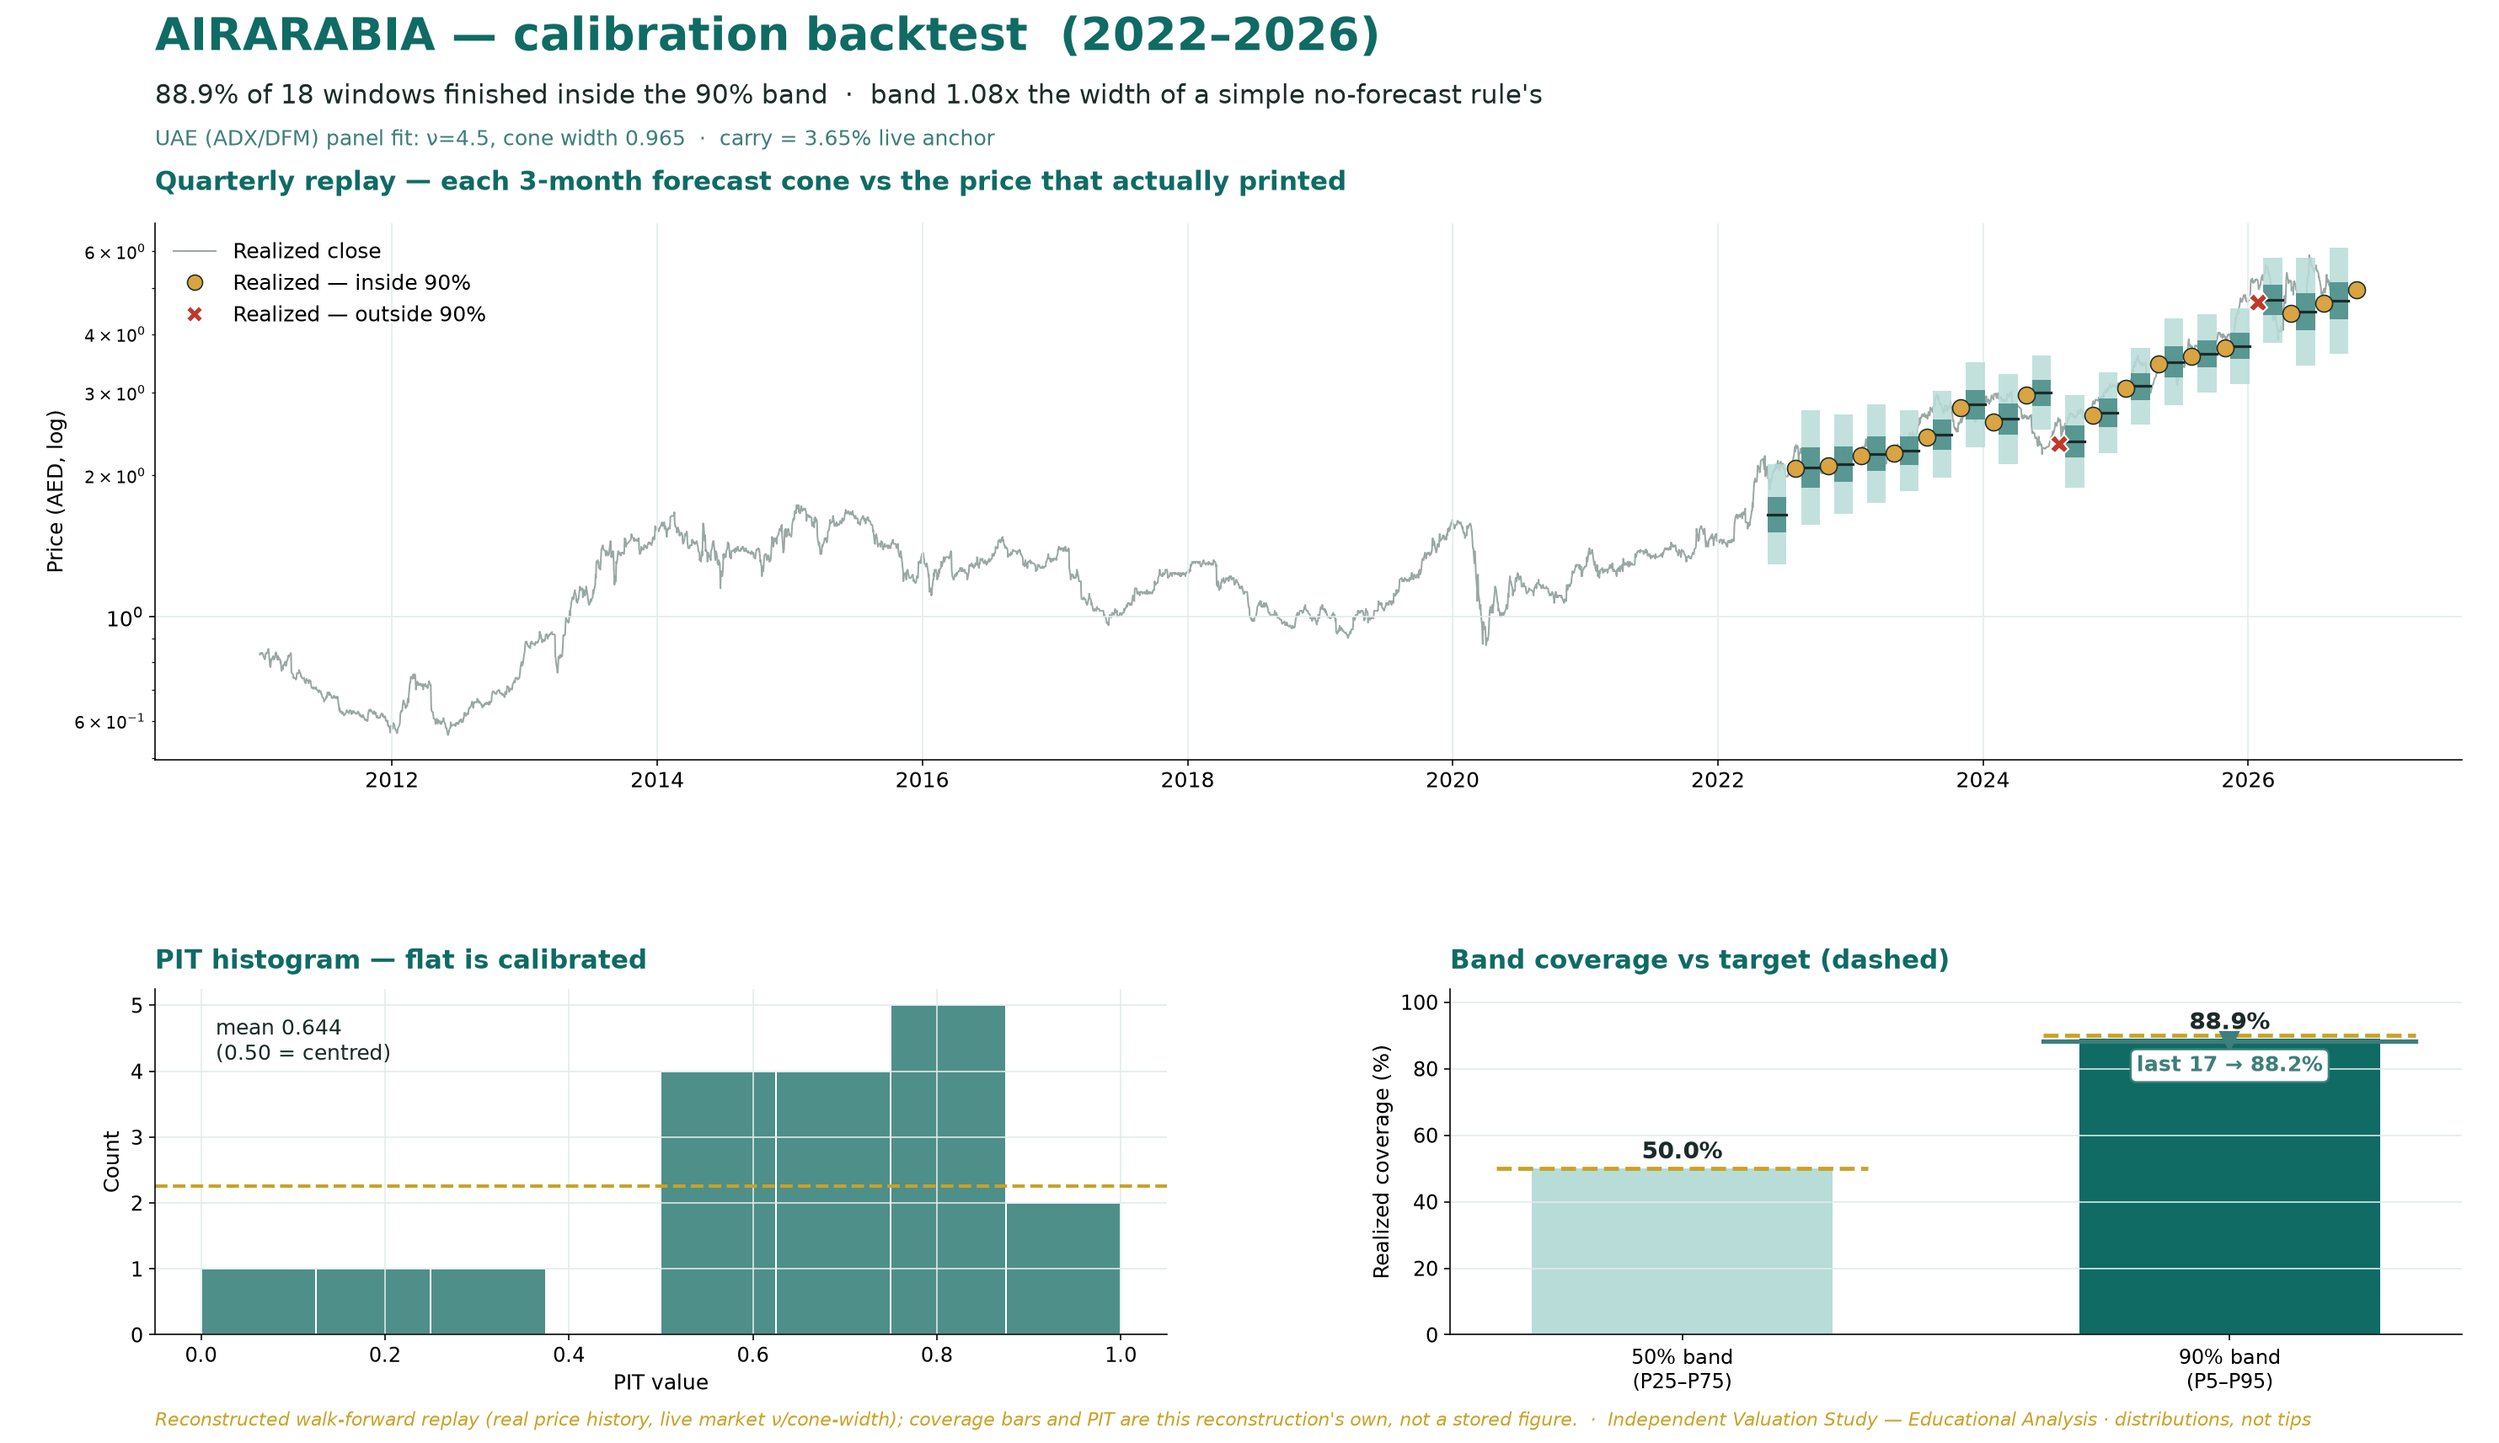
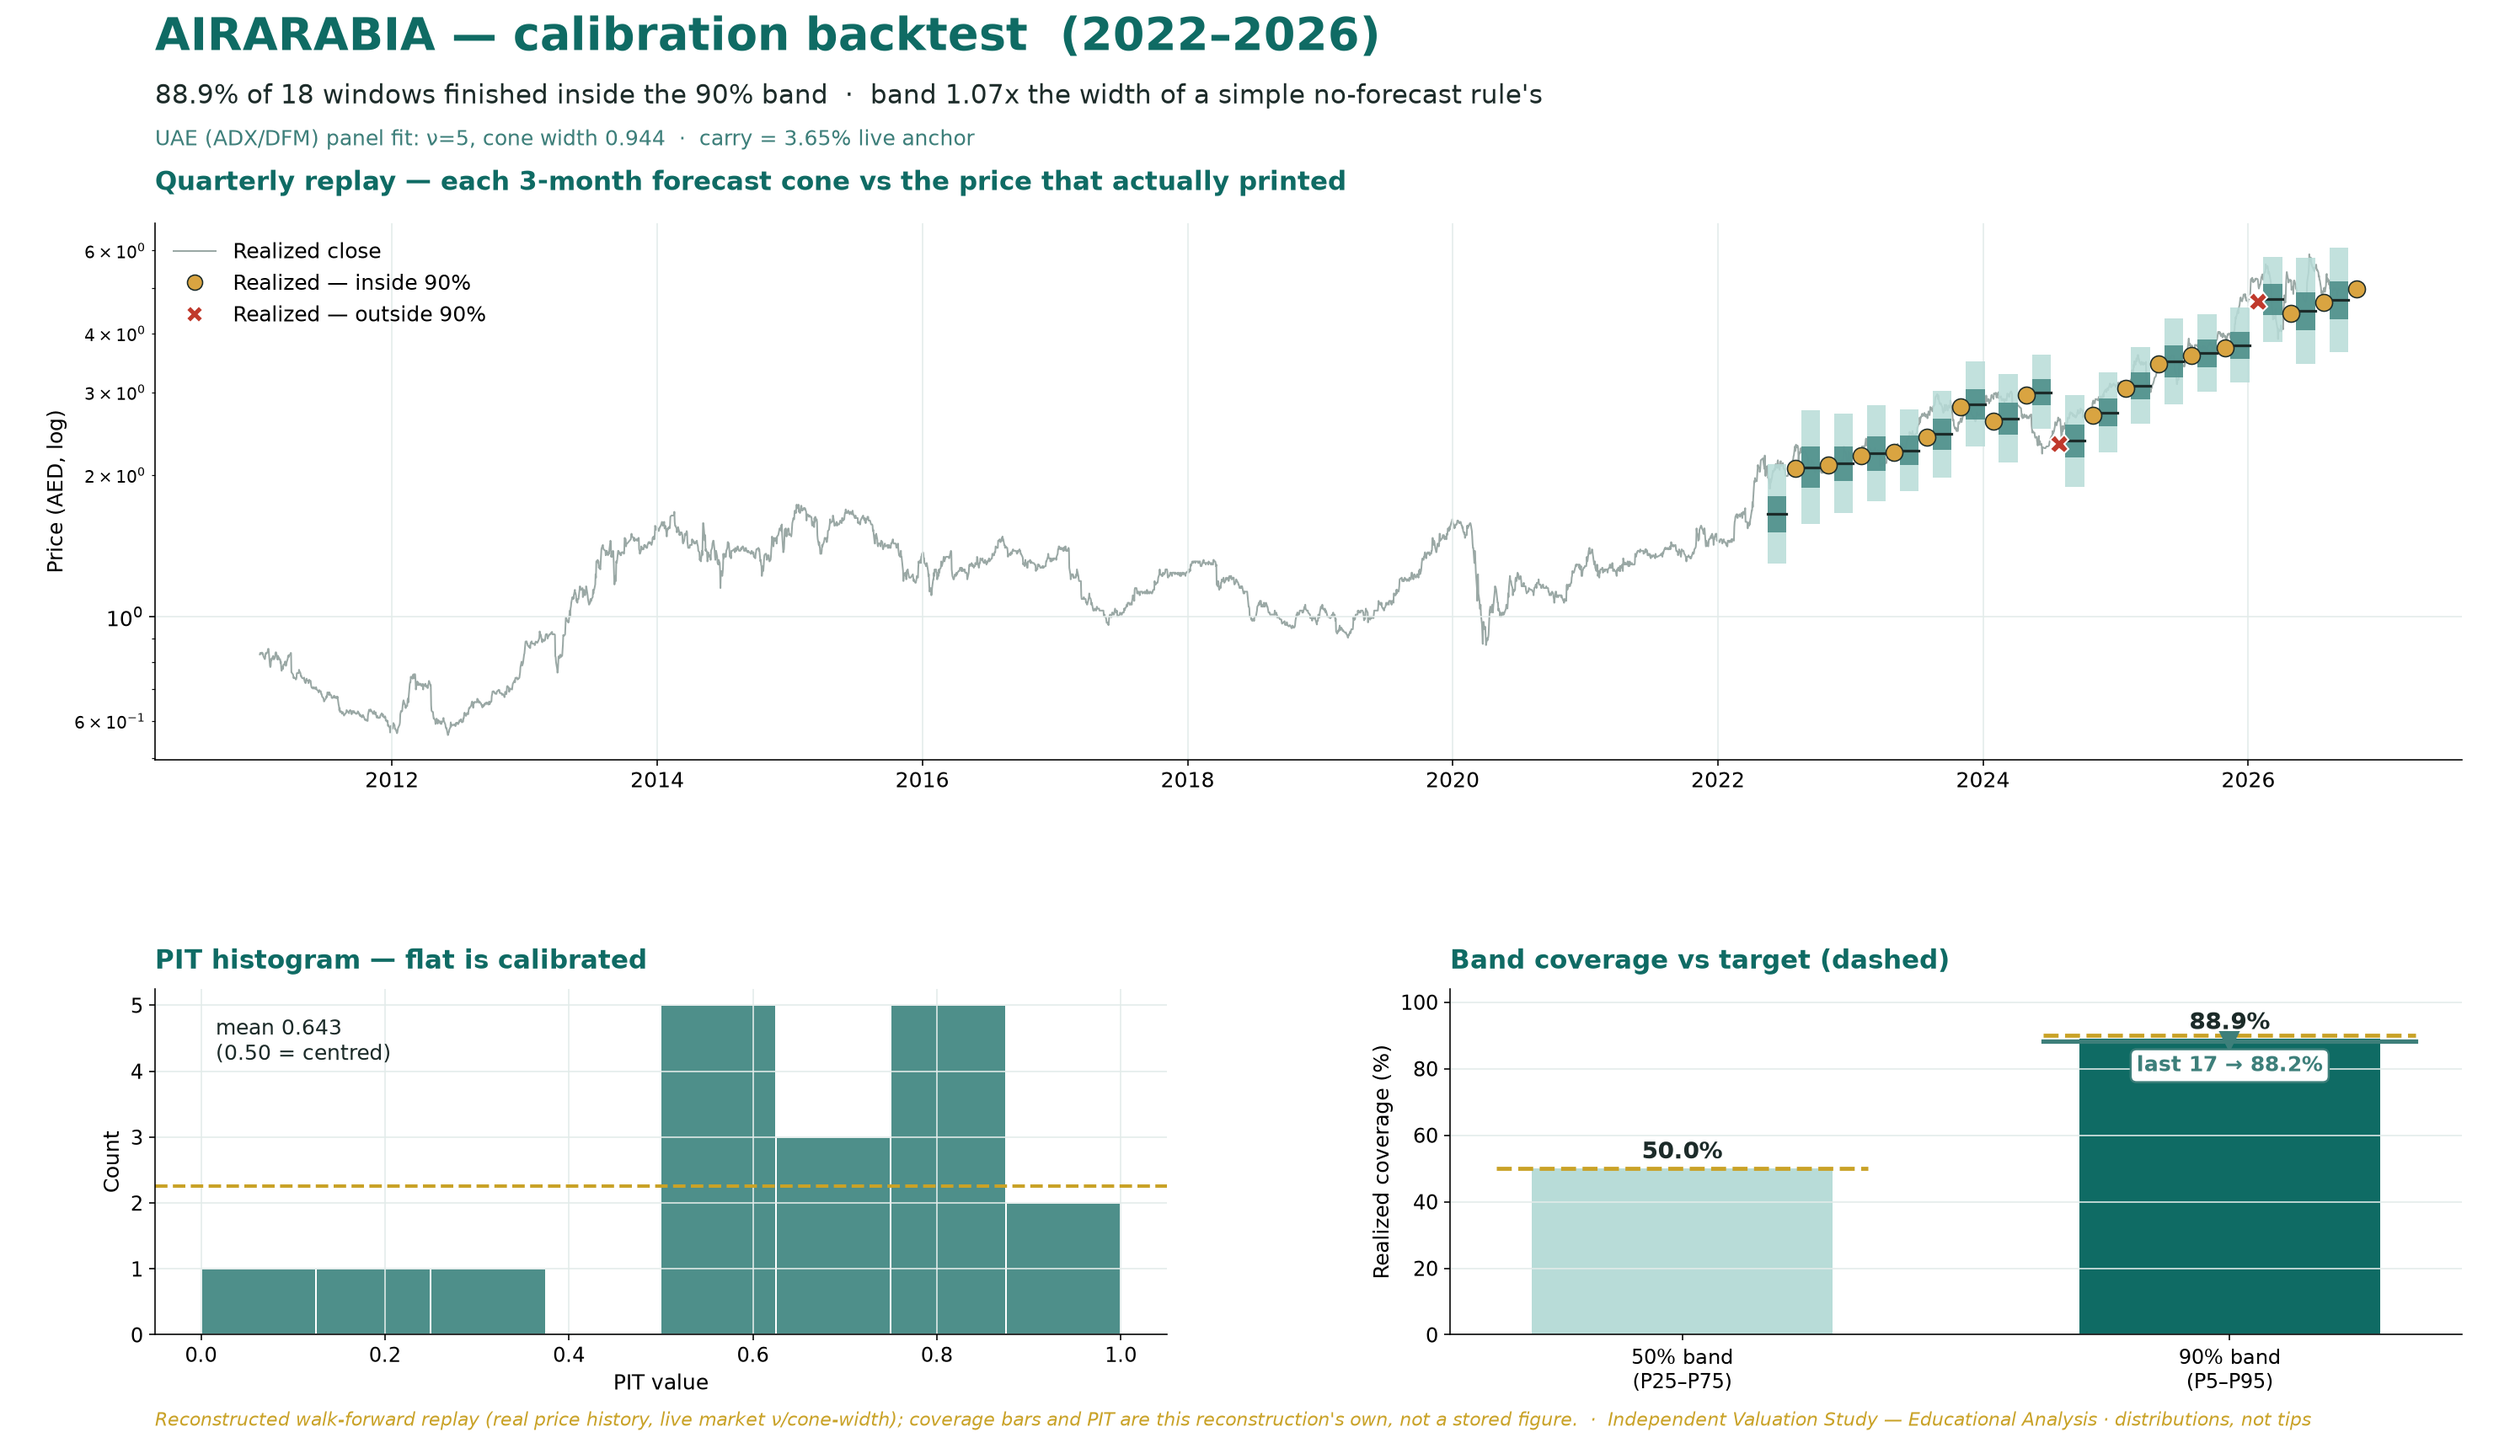
Regenerate the derived surfaces for the AIRARABIA republish

diff --git a/assets/data.js b/assets/data.js
@@ -325,13 +325,13 @@ const TICKERS = {
     ccy: "AED",
     fair: { bear: 2.01, base: 4.17, full: 6.97 },   // Fair value clusters at AED 4.17 a share on the base framing and AED 4.42 with the joint-venture network capitalised, against a close of AED 5.24. The forecast is built BOTTOM-UP on the aircraft: volume is fleet-led on the CONSOLIDATED fleet (56 aircraft at Sharjah and Ras Al Khaimah growing to roughly 72 by FY2030, about 7 owned and 9 leased additions out of the 120-aircraft order) at a held ~85-86% load factor, revenue is passengers times a per-passenger fare and ancillary rate, and every cost class carries ITS OWN escalator - fuel as cost per passenger = intensity 1.937 times an effective jet price path, never a blended cost index. Margins are OUTPUTS: EBITDA eases from 24.3% actual to 21.1% in the fuel-spike year and recovers to 24.3%. TWO JUDGEMENTS ARE COMPUTED BOTH WAYS AND NEVER AVERAGED. The fuel path: the official energy-agency curve gives AED 4.35, the airline association's high-fuel assumption held gives AED 2.30 - a 2.05 per-share swing that dominates everything else. And the joint-venture network (Abu Dhabi, Egypt at a raised 49%, Fly Jinnah, Maroc and the new Saudi Dammam carrier): the audited carrying value contributes AED 0.08 a share, capitalising the AED 190mn profit share at 15x contributes AED 0.61. Leased aircraft are NOT free capacity - their gross right-of-use value is charged inside free cash flow, which is why terminal value carries 95% of enterprise value and the study says so rather than burying it. Cost of capital 8.01% gliding to 7.50%, with the sovereign spread netted OUT of the risk-free rate so country risk is charged once. The beta is the honest weak point and is published twice: 0.812 measured against the Abu Dhabi general index, the series this share is measured against because no Dubai general-index series is held for the purpose, and 1.086 against a Dubai index - the stronger fit on this share (R2 0.40 against 0.14), worth AED 3.51 on the cash-flow lens, published beside the adopted figure rather than hidden in a sensitivity table. Four lenses land between AED 3.43 and 5.17; the weighted central is AED 4.17, 20% below the market. The gap is not a mispricing claim so much as a list of things a buyer at 5.24 must believe: cheaper fuel from 2027, and five equity-accounted airlines worth far more than the balance sheet carries them at.
     dist: {
-      t20: { label:"1 month",   p5:4.34, p25:4.75, p50:4.99, p75:5.25, p95:5.75, resolve:"2026-10-08" },
-      t60: { label:"3 months",  p5:3.96, p25:4.61, p50:5.03, p75:5.48, p95:6.38, resolve:"2026-12-08" }
+      t20: { label:"1 month",   p5:4.34, p25:4.74, p50:4.99, p75:5.25, p95:5.75, resolve:"2026-10-08" },
+      t60: { label:"3 months",  p5:3.96, p25:4.62, p50:5.03, p75:5.48, p95:6.38, resolve:"2026-12-08" }
     },
     hz: { h1:21, h3:62, l1:"1 month", l3:"3 months", cal:true },
-    fit: { nu:4.5, cal:0.965, mult:1, eff:0.965, on:"2026-09-08" },
+    fit: { nu:5, cal:0.944, mult:1, eff:0.944, on:"2026-09-08" },
     touch: [ /* level, P(touch) 1-month %, 3-month % - descending */
-      [6.29, 2, 10], [6.03, 3, 16], [5.76, 8, 26], [5.50, 18, 42], [4.98, 87, 93], [4.72, 40, 60]
+      [6.29, 2, 10], [6.03, 3, 16], [5.76, 8, 26], [5.50, 18, 42], [4.98, 87, 93], [4.72, 41, 60]
     ],
     levels: { res:[5.05, 5.24, 5.62], sup:[4.84, 3.80, 3.60] },
     tech: {
@@ -8225,6 +8225,7 @@ const LEDGER = [
     in_90:null, in_50:null, realized_quantile:null, median_err:null,
     touch_hit:{ "+5":null, "+10":null, "+15":null, "+20":null, "-5":null, "-10":null }
   },
+
   // ---- 08-Sep-2026 single-name roll-forward: AIRARABIA, struck on its own
   //      latest library close. Append-only.
   {
@@ -8232,10 +8233,10 @@ const LEDGER = [
     anchor_date:"2026-09-08", run_date:"2026-09-08", anchor_price:4.97, ccy:"AED",
     horizon_label:"1 month", grade_date:"2026-10-08", grade_basis:"projected", horizon_days:21,
     cycle_no:2, reanchor_from:"2026-08-07", anchor_vol:0.3299,
-    signal_z:0.5865, signal_alpha:0.005821,
-    note:"Cycle 2 roll-forward, 08-Sep-2026 — struck on the 08-Sep-2026 close, the latest session in this name’s library, at the monthly metronome — the prior cycle’s 1-month matured on 2026-09-07 and is graded in this same pass. The previous cone was anchored 2026-08-07; every still-open cohort on cycle 1 stays OPEN and grades on its own terms; nothing retro-edited. Production chain, no approximation: Step 0.0 data-quality gate → YZ variance proxy → fit_har_v3 → har_forecast_v3 → carry drift ln(1+rf_live)−ln(1+q) → simulate_paths_v3, 50,000 paths, seed 42, signal ON. q_annual=0.06036 (FLAGGED — house convention; the drift is a GROSS-OF-DIVIDEND price carry and overstates the centre by roughly the yield.) AE live fit nu=4.5, width_cal=0.965. rf_live 3.65% CBUAE base rate (AED peg -> Fed path). Direction call UP, from this name’s own mom_combo z of +0.586 (outside the 0.25 dead zone); tilt +0.58% at 1M and +1.72% at 3M, applied through the engine’s per-market signal socket at the horizon’s own measured ic and capped at ic x sigma x z. Horizons resolved by horizons.resolve() on AE’s own realized calendar — a calendar commitment, not a session count; the session counts (h=21 / 62) size the cone only.",
-    p5:4.34, p25:4.75, p50:4.99, p75:5.25, p95:5.75,
-    touch:{ "+5":45, "+10":20, "+15":9, "+20":4, "-5":40, "-10":15 },
+    signal_z:0.5865, signal_alpha:0.005695,
+    note:"Cycle 2 roll-forward, 08-Sep-2026 — struck on the 08-Sep-2026 close, the latest session in this name’s library, at the monthly metronome — the prior cycle’s 1-month matured on 2026-09-07 and is graded in this same pass. The previous cone was anchored 2026-08-07; every still-open cohort on cycle 1 stays OPEN and grades on its own terms; nothing retro-edited. Production chain, no approximation: Step 0.0 data-quality gate → YZ variance proxy → fit_har_v3 → har_forecast_v3 → carry drift ln(1+rf_live)−ln(1+q) → simulate_paths_v3, 50,000 paths, seed 42, signal ON. q_annual=0.06036 (the carry is NET of it — ln(1+rf) − ln(1+q) — so the centre is the ex-dividend price path and the yield is deducted, never carried.) AE live fit nu=5.0, width_cal=0.944. rf_live 3.65% CBUAE base rate (AED peg -> Fed path). Direction call UP, from this name’s own mom_combo z of +0.586 (outside the 0.25 dead zone); tilt +0.57% at 1M and +1.68% at 3M, applied through the engine’s per-market signal socket at the horizon’s own measured ic and capped at ic x sigma x z. Horizons resolved by horizons.resolve() on AE’s own realized calendar — a calendar commitment, not a session count; the session counts (h=21 / 62) size the cone only.",
+    p5:4.34, p25:4.74, p50:4.99, p75:5.25, p95:5.75,
+    touch:{ "+5":46, "+10":20, "+15":9, "+20":4, "-5":41, "-10":14 },
     realized_close:null, realized_high:null, realized_low:null,
     in_90:null, in_50:null, realized_quantile:null, median_err:null,
     touch_hit:{ "+5":null, "+10":null, "+15":null, "+20":null, "-5":null, "-10":null }
@@ -8245,9 +8246,9 @@ const LEDGER = [
     anchor_date:"2026-09-08", run_date:"2026-09-08", anchor_price:4.97, ccy:"AED",
     horizon_label:"3 months", grade_date:"2026-12-08", grade_basis:"projected", horizon_days:62,
     cycle_no:2, reanchor_from:"2026-08-07", anchor_vol:0.328,
-    signal_z:0.5865, signal_alpha:0.017037,
-    note:"Cycle 2 roll-forward, 08-Sep-2026 — struck on the 08-Sep-2026 close, the latest session in this name’s library, at the monthly metronome — the prior cycle’s 1-month matured on 2026-09-07 and is graded in this same pass. The previous cone was anchored 2026-08-07; every still-open cohort on cycle 1 stays OPEN and grades on its own terms; nothing retro-edited. Production chain, no approximation: Step 0.0 data-quality gate → YZ variance proxy → fit_har_v3 → har_forecast_v3 → carry drift ln(1+rf_live)−ln(1+q) → simulate_paths_v3, 50,000 paths, seed 42, signal ON. q_annual=0.06036 (FLAGGED — house convention; the drift is a GROSS-OF-DIVIDEND price carry and overstates the centre by roughly the yield.) AE live fit nu=4.5, width_cal=0.965. rf_live 3.65% CBUAE base rate (AED peg -> Fed path). Direction call UP, from this name’s own mom_combo z of +0.586 (outside the 0.25 dead zone); tilt +0.58% at 1M and +1.72% at 3M, applied through the engine’s per-market signal socket at the horizon’s own measured ic and capped at ic x sigma x z. Horizons resolved by horizons.resolve() on AE’s own realized calendar — a calendar commitment, not a session count; the session counts (h=21 / 62) size the cone only.",
-    p5:3.96, p25:4.61, p50:5.03, p75:5.48, p95:6.38,
+    signal_z:0.5865, signal_alpha:0.016666,
+    note:"Cycle 2 roll-forward, 08-Sep-2026 — struck on the 08-Sep-2026 close, the latest session in this name’s library, at the monthly metronome — the prior cycle’s 1-month matured on 2026-09-07 and is graded in this same pass. The previous cone was anchored 2026-08-07; every still-open cohort on cycle 1 stays OPEN and grades on its own terms; nothing retro-edited. Production chain, no approximation: Step 0.0 data-quality gate → YZ variance proxy → fit_har_v3 → har_forecast_v3 → carry drift ln(1+rf_live)−ln(1+q) → simulate_paths_v3, 50,000 paths, seed 42, signal ON. q_annual=0.06036 (the carry is NET of it — ln(1+rf) − ln(1+q) — so the centre is the ex-dividend price path and the yield is deducted, never carried.) AE live fit nu=5.0, width_cal=0.944. rf_live 3.65% CBUAE base rate (AED peg -> Fed path). Direction call UP, from this name’s own mom_combo z of +0.586 (outside the 0.25 dead zone); tilt +0.57% at 1M and +1.68% at 3M, applied through the engine’s per-market signal socket at the horizon’s own measured ic and capped at ic x sigma x z. Horizons resolved by horizons.resolve() on AE’s own realized calendar — a calendar commitment, not a session count; the session counts (h=21 / 62) size the cone only.",
+    p5:3.96, p25:4.62, p50:5.03, p75:5.48, p95:6.38,
     touch:{ "+5":67, "+10":44, "+15":28, "+20":18, "-5":60, "-10":35 },
     realized_close:null, realized_high:null, realized_low:null,
     in_90:null, in_50:null, realized_quantile:null, median_err:null,
@@ -8499,7 +8500,7 @@ const CALIB = {
   "ADX:IHC": {w: 47, in50: 64, in90: 83, through: "2026-07-21"},
   "ADX:LULU": {w: 2, in50: 100, in90: 100, through: "2026-06-01"},
   "ADX:MODON": {w: 24, in50: 54, in90: 83, through: "2026-09-01"},
-  "DFM:AIRARABIA": {w: 58, in50: 47, in90: 86, through: "2026-07-28"},
+  "DFM:AIRARABIA": {w: 58, in50: 47, in90: 84, through: "2026-07-28"},
   "DFM:DEWA": {w: 13, in50: 54, in90: 100, through: "2026-07-28"},
   "DFM:DIB": {w: 58, in50: 53, in90: 84, through: "2026-07-28"},
   "DFM:DU": {w: 58, in50: 64, in90: 93, through: "2026-07-29"},
